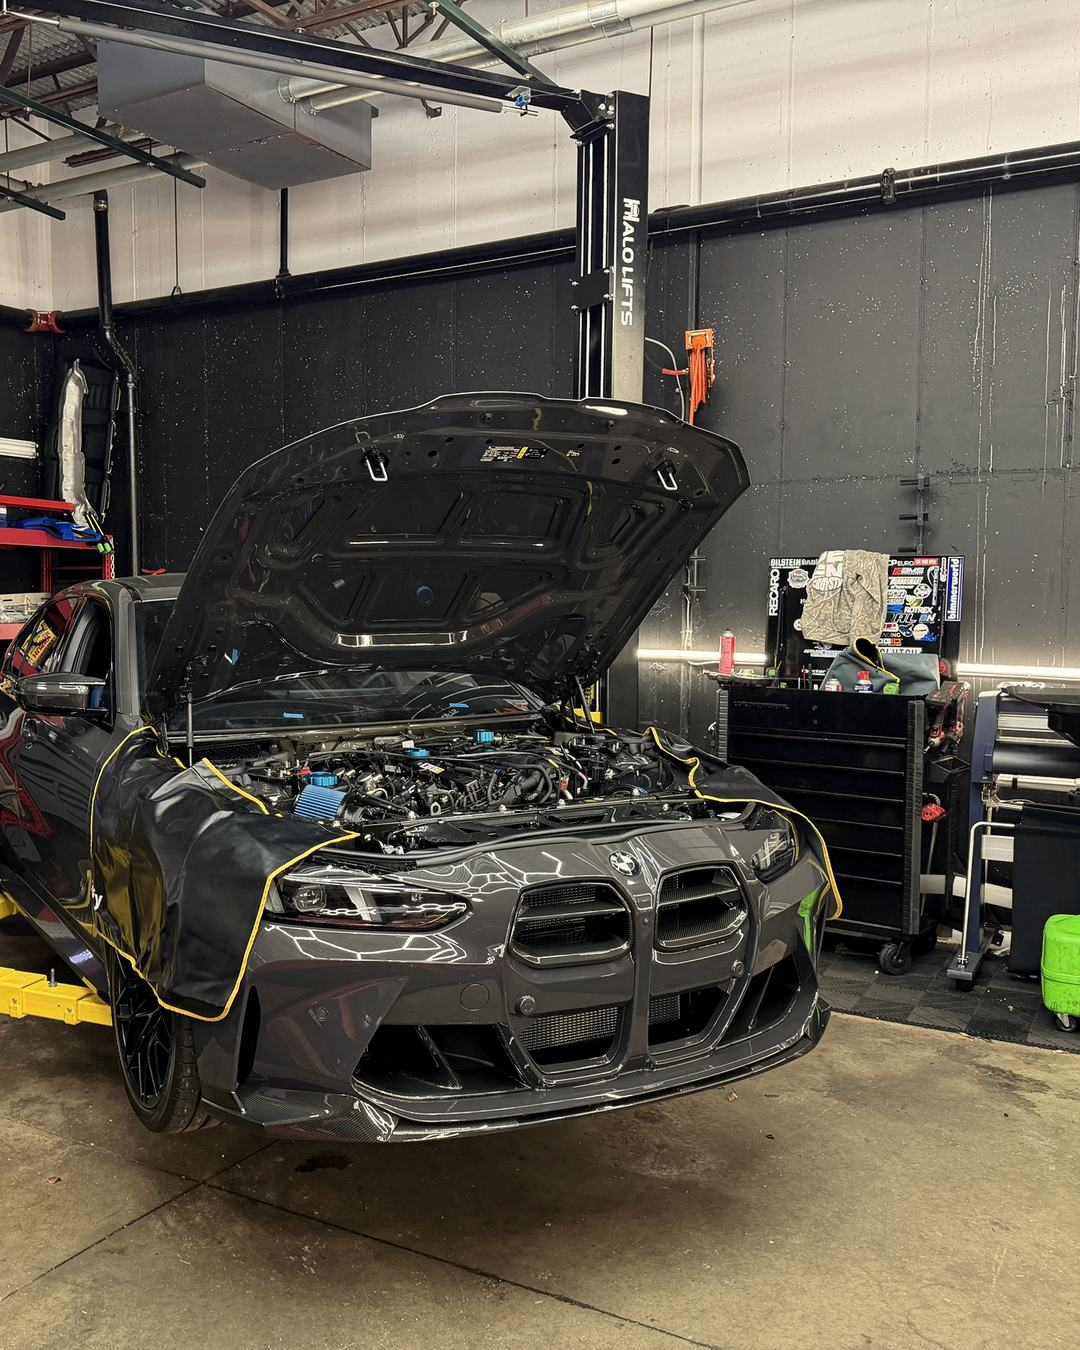
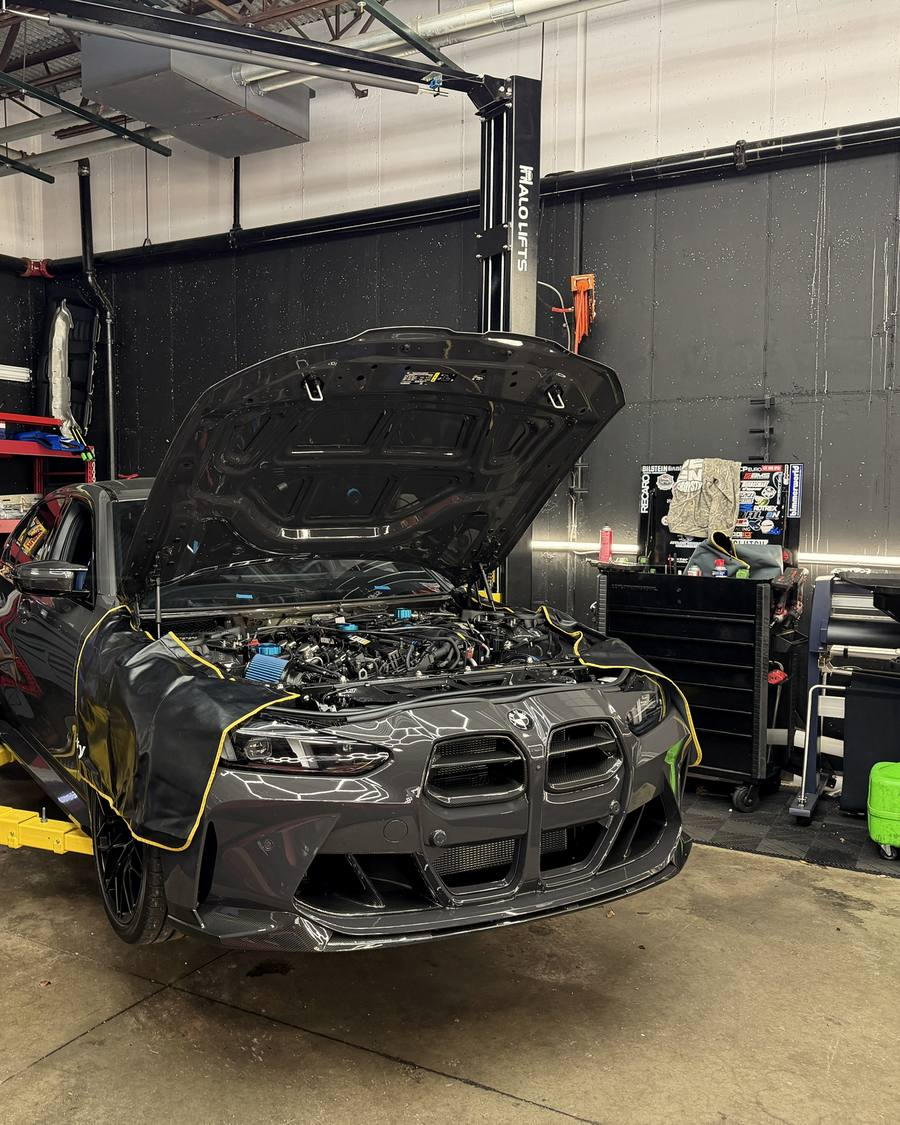
Photos: smaller files, phone-specific hero preload
Claude-Session: https://claude.ai/code/session_01FjDghypHAc3C4zegzep4wb

diff --git a/tools/photos.py b/tools/photos.py
@@ -15,9 +15,9 @@ SRC = os.path.join(ROOT, "photos-src")
 
 # slot type -> (desktop size, phone size or None)
 SIZES = {
-    "hero": ((2400, 1200), (1080, 1350)),
-    "page": ((2400, 900), (1080, 1080)),
-    "band": ((2400, 900), (1080, 900)),
+    "hero": ((2000, 1000), (900, 1125)),
+    "page": ((2000, 750), (900, 900)),
+    "band": ((2000, 750), (900, 750)),
     "approach": ((1400, 1100), (1080, 810)),
     "tile": ((900, 1200), None),
     "team": ((2400, 1030), (1080, 810)),
@@ -60,10 +60,10 @@ def main():
             reg = im.crop(box); im.paste(reg.resize((5, 3)).resize(reg.size).filter(ImageFilter.GaussianBlur(10)), box)
         fx, fy = c.get("focus", [0.5, 0.5])
         d, m = SIZES[kind(slot)]
-        crop_to(im, *d, fx, fy, c.get("zoom", 1.0)).save(os.path.join(OUT, f"{slot}.jpg"), quality=76, optimize=True, progressive=True)
+        crop_to(im, *d, fx, fy, c.get("zoom", 1.0)).save(os.path.join(OUT, f"{slot}.jpg"), quality=72, optimize=True, progressive=True)
         if m:
             mf = c.get("focus_m", [fx, fy])
-            crop_to(im, *m, *mf, c.get("zoom_m", 1.0)).save(os.path.join(OUT, f"{slot}-m.jpg"), quality=76, optimize=True, progressive=True)
+            crop_to(im, *m, *mf, c.get("zoom_m", 1.0)).save(os.path.join(OUT, f"{slot}-m.jpg"), quality=72, optimize=True, progressive=True)
         print("ok", slot)
 
 if __name__ == "__main__":

diff --git a/build.py b/build.py
@@ -164,7 +164,7 @@ def page_html(ctx, p):
 <link rel="preload" href="{L('/fonts/Inter-400.woff2')}" as="font" type="font/woff2" crossorigin>
 <link rel="preload" href="{L('/fonts/Montserrat-700-italic.woff2')}" as="font" type="font/woff2" crossorigin>
 <link rel="stylesheet" href="{L('/css/site.css')}?v={ver('css/site.css')}">
-{('<link rel="preload" as="image" fetchpriority="high" href="' + L(content.photo('hero')) + '">') if ctx.path == "/" else ""}
+{('<link rel="preload" as="image" fetchpriority="high" href="' + L(content.photo('hero')) + '" media="(min-width:981px)"><link rel="preload" as="image" fetchpriority="high" href="' + L(content.photo_m('hero')) + '" media="(max-width:980px)">') if ctx.path == "/" else ""}
 {ld}
 <script>window.AAW={cfg_js};</script>
 </head>
